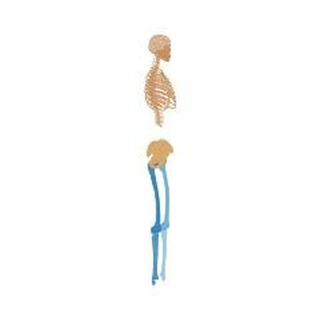
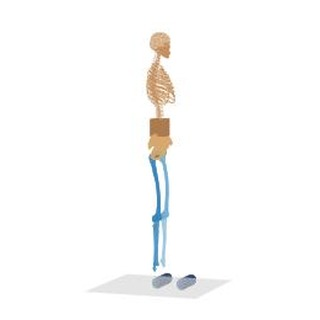
Show complete subject geometry
Render and validate the sphere-only feet, ground plane, and a visual abdomen connector in the reusable OpenSim subject example.

Keep the connector visual-only and preserve OpenSim-derived body scaling, joint registration, primitive contact policy, and exact zero-root-control checks.

Changed region(s): [[0.2812, 0.0938, 0.7188, 0.9375]]

diff --git a/newton/examples/opensim/example_opensim_subject.py b/newton/examples/opensim/example_opensim_subject.py
@@ -92,6 +92,7 @@ class Example:
             visual_meshes = visuals.meshes
             print(f"VTP: {len(visual_meshes)} scaled visual meshes -> {visuals.root}")
 
+        self.visual_mesh_count = len(visual_meshes)
         self.subject_xml = write_subject_mjcf(
             config,
             self.model_dir / "subject.xml",
@@ -138,6 +139,25 @@ class Example:
             raise ValueError("subject MJCF was not published")
         if self.model.body_count != 8 or self.model.joint_dof_count != 16:
             raise ValueError("subject model has an unexpected topology")
+        shape_types = self.model.shape_type.numpy()
+        contact_spheres = [
+            index
+            for index, label in enumerate(self.model.shape_label)
+            if "/contact_left_" in label or "/contact_right_" in label
+        ]
+        if len(contact_spheres) != 8 or any(shape_types[index] != newton.GeoType.SPHERE for index in contact_spheres):
+            raise ValueError("subject model must contain eight foot contact spheres")
+        ground = [index for index, label in enumerate(self.model.shape_label) if label.endswith("/ground")]
+        if len(ground) != 1 or shape_types[ground[0]] != newton.GeoType.PLANE:
+            raise ValueError("subject model must contain one ground plane")
+        if self.visual_mesh_count:
+            connector = [
+                index
+                for index, label in enumerate(self.model.shape_label)
+                if label.endswith("/geometry_abdomen_connector")
+            ]
+            if len(connector) != 1 or shape_types[connector[0]] != newton.GeoType.BOX:
+                raise ValueError("scaled visual model must contain an abdomen connector")
         body_q = self.state_0.body_q.numpy()
         body_qd = self.state_0.body_qd.numpy()
         if not np.all(np.isfinite(body_q)) or not np.all(np.isfinite(body_qd)):

diff --git a/projects/gait_c3d/subject_mjcf.py b/projects/gait_c3d/subject_mjcf.py
@@ -330,6 +330,23 @@ def subject_mjcf_xml(
             mesh=mesh.name,
             attrib={"class": "visual"},
         )
+    if visual_meshes:
+        connector_bottom = 0.40 * config.pelvis_dimensions[2]
+        connector_top = max(connector_bottom + 0.02, config.torso_center_offset - 0.35 * config.torso_dimensions[2])
+        ET.SubElement(
+            pelvis,
+            "geom",
+            name="geometry_abdomen_connector",
+            type="box",
+            pos=_values(0.0, 0.0, 0.5 * (connector_bottom + connector_top)),
+            size=_values(
+                0.25 * min(config.pelvis_dimensions[0], config.torso_dimensions[0]),
+                0.25 * min(config.pelvis_dimensions[1], config.torso_dimensions[1]),
+                0.5 * (connector_top - connector_bottom),
+            ),
+            rgba="0.68 0.48 0.30 1",
+            attrib={"class": "visual"},
+        )
 
     keyframe = ET.SubElement(root, "keyframe")
     ET.SubElement(

diff --git a/newton/tests/test_gait_vtp_adapter.py b/newton/tests/test_gait_vtp_adapter.py
@@ -124,9 +124,14 @@ class TestGaitVTPAdapter(unittest.TestCase):
         np.testing.assert_allclose(femur_record["source"]["target_proximal_newton"], (0.0, 0.0, 0.225))
         self.assertEqual(model.body_count, 8)
         self.assertEqual(model.joint_dof_count, 16)
-        self.assertEqual(model.shape_count, 15)
+        self.assertEqual(model.shape_count, 16)
+        connector = next(
+            index for index, label in enumerate(model.shape_label) if label.endswith("/geometry_abdomen_connector")
+        )
         shape_types = model.shape_type.numpy()
         shape_flags = model.shape_flags.numpy()
+        self.assertEqual(shape_types[connector], newton.GeoType.BOX)
+        self.assertFalse(shape_flags[connector] & newton.ShapeFlags.COLLIDE_SHAPES)
         mesh_indices = np.flatnonzero(shape_types == newton.GeoType.MESH)
         self.assertEqual(len(mesh_indices), 6)
         for shape in mesh_indices:
